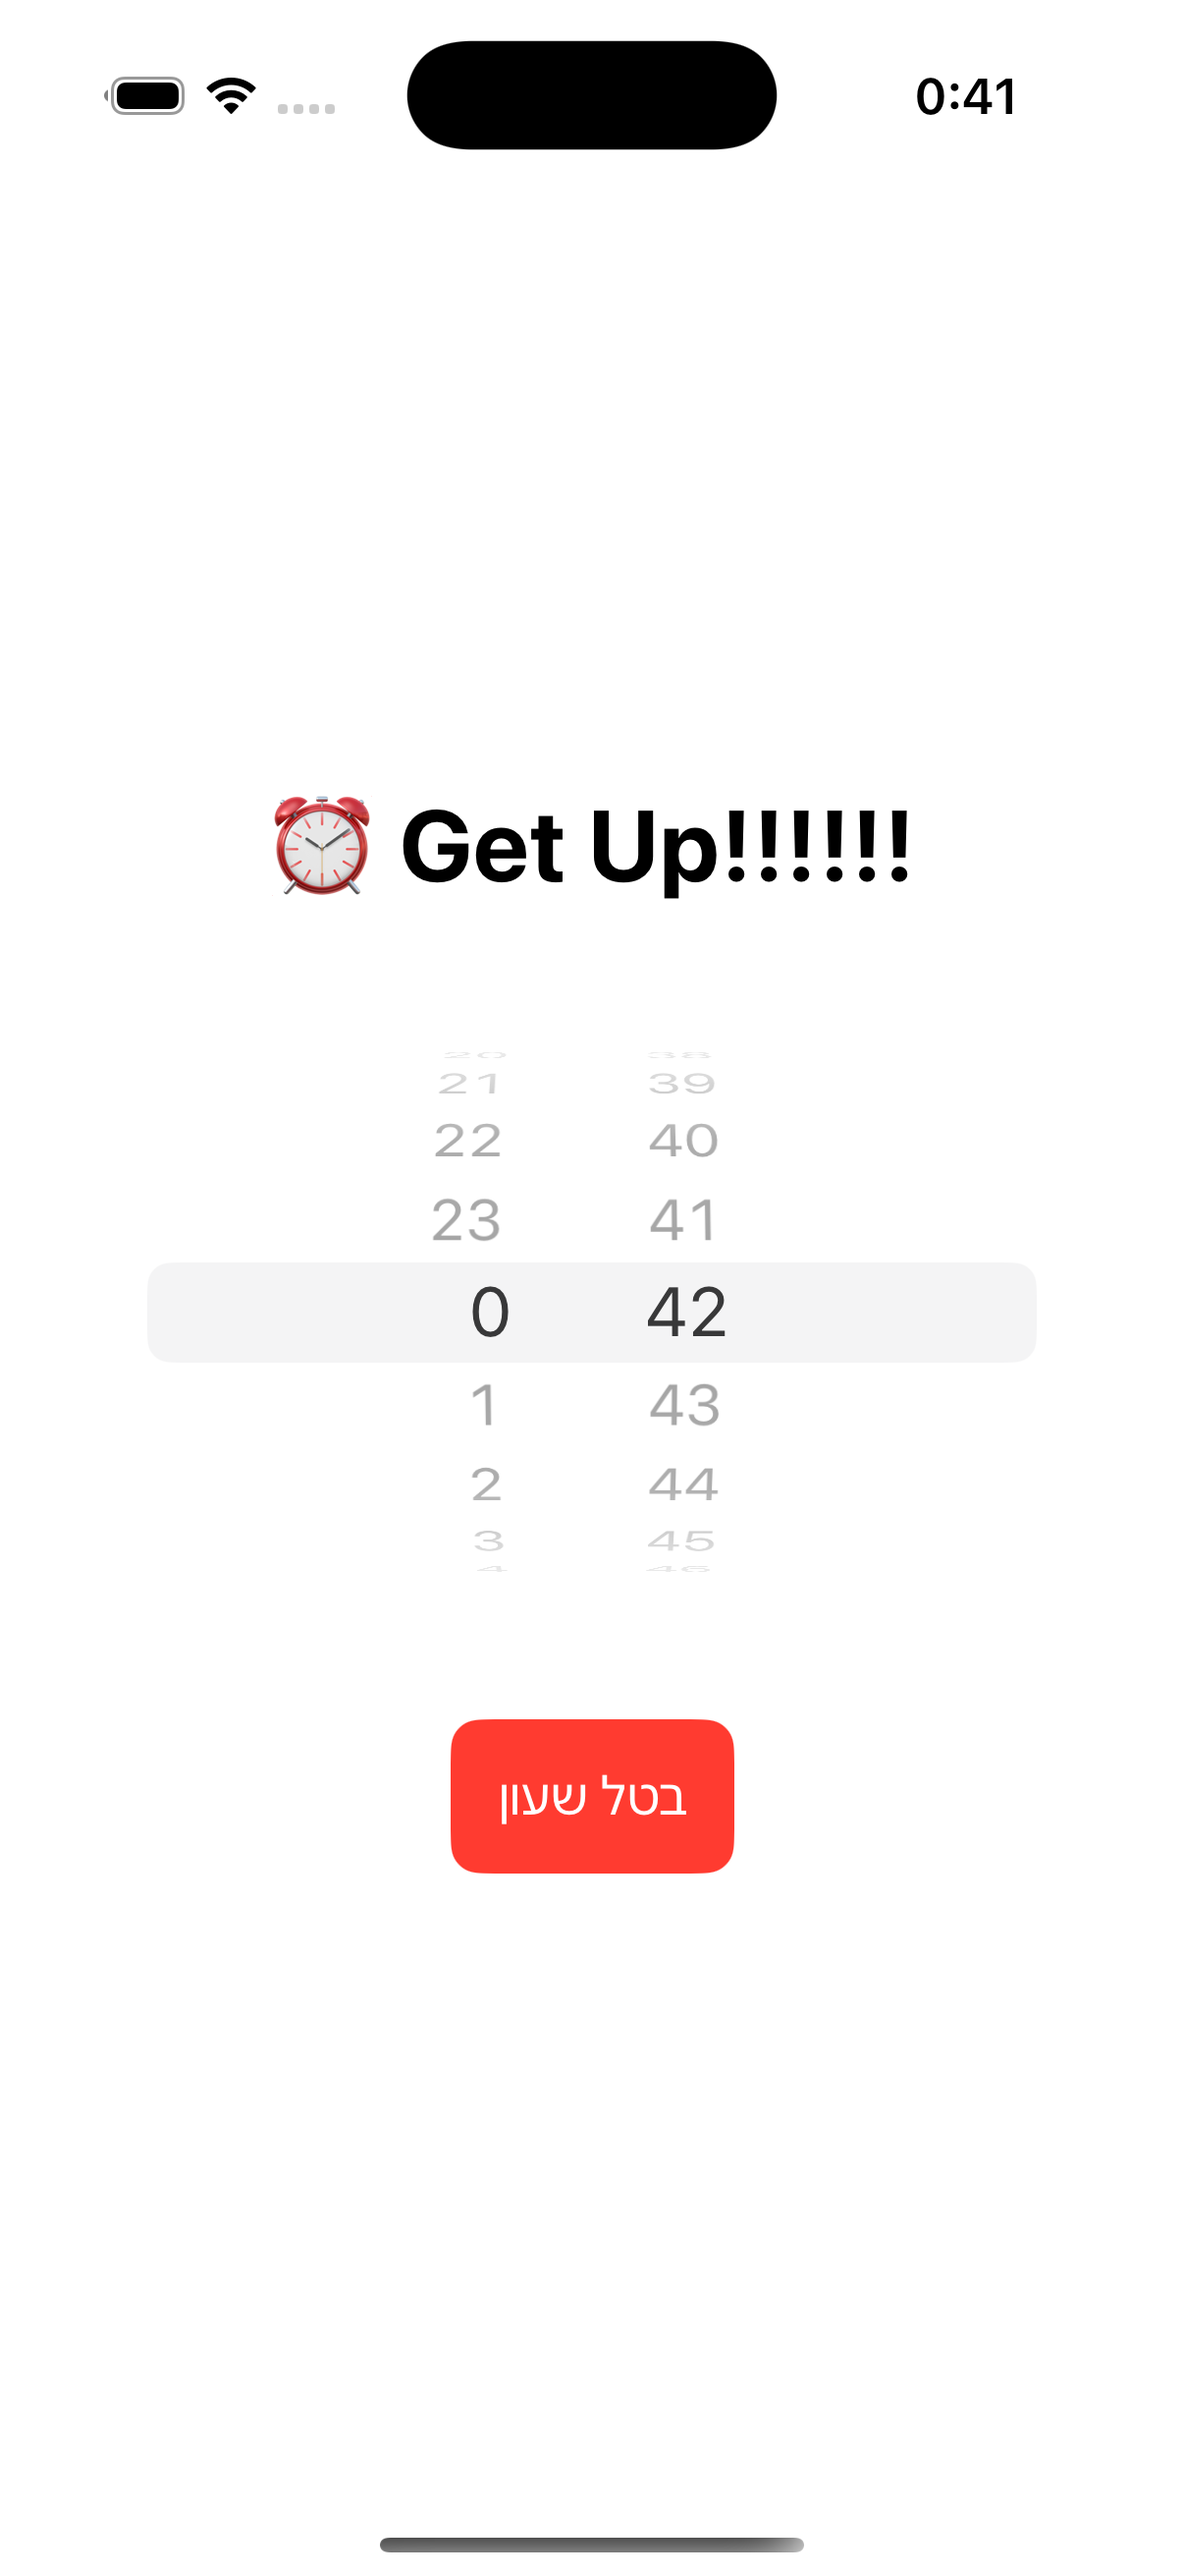
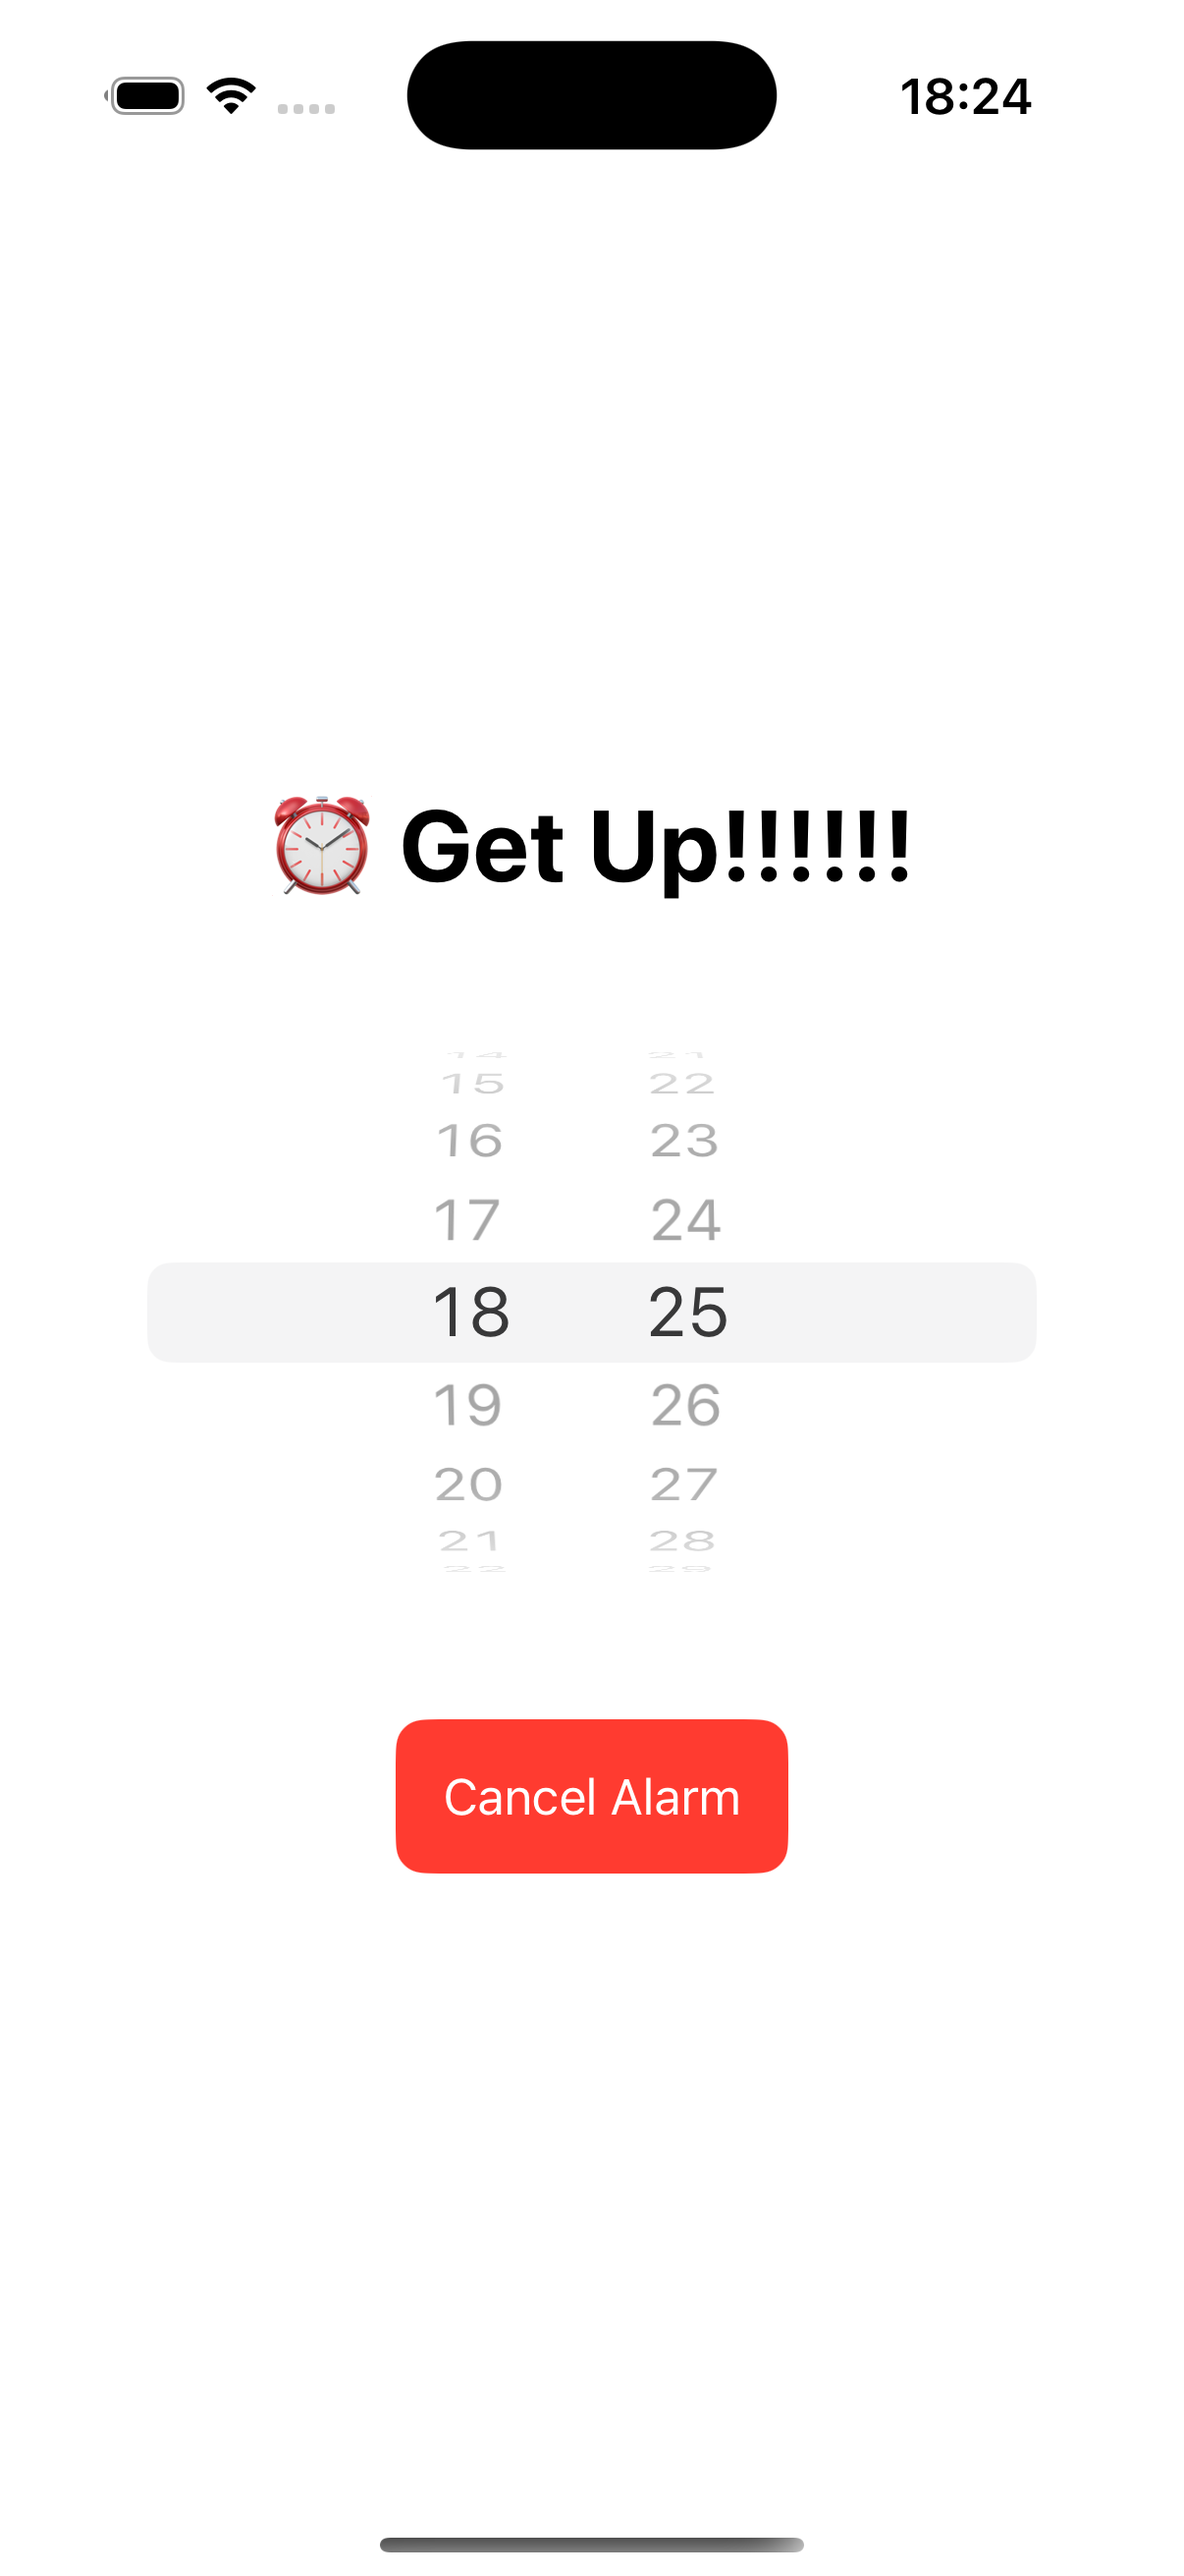
Translate all user-visible strings to English

diff --git a/SmartWake/MultiplyChallengeView.swift b/SmartWake/MultiplyChallengeView.swift
@@ -10,24 +10,24 @@ struct MultiplyChallengeView: View {
 
     var body: some View {
         VStack(spacing: 30) {
-            Text("📚 לוח הכפל")
+            Text("📚 Multiplication Table")
                 .font(.title)
                 .bold()
 
             if finished {
-                Text("✅ הצלחת! אפשר לחזור לישון 😉")
+                Text("✅ Well done! You can go back to sleep 😉")
                     .font(.title2)
                     .foregroundColor(.green)
             } else {
                 Text(question)
                     .font(.system(size: 50, weight: .bold, design: .rounded))
 
-                TextField("התשובה שלך", text: $userAnswer)
+                TextField("Your answer", text: $userAnswer)
                     .keyboardType(.numberPad)
                     .textFieldStyle(RoundedBorderTextFieldStyle())
                     .frame(width: 100)
 
-                Button("בדוק תשובה") {
+                Button("Check Answer") {
                     checkAnswer()
                 }
                 .padding()
@@ -35,7 +35,7 @@ struct MultiplyChallengeView: View {
                 .foregroundColor(.white)
                 .cornerRadius(10)
 
-                Text("נשארו לך \(5 - score) שאלות")
+                Text("You have \(5 - score) questions left")
                     .foregroundColor(.gray)
             }
         }

diff --git a/SmartWake/ContentView.swift b/SmartWake/ContentView.swift
@@ -14,11 +14,11 @@ struct ContentView: View {
                 .bold()
             
             // Wheel picker—hour & minute only (no date)
-            DatePicker("בחר שעה", selection: bindingForTime(), displayedComponents: [.hourAndMinute])
+            DatePicker("Pick a time", selection: bindingForTime(), displayedComponents: [.hourAndMinute])
                 .datePickerStyle(WheelDatePickerStyle())
                 .labelsHidden()
 
-            Button(alarmSet ? "בטל שעון" : "הפעל שעון") {
+            Button(alarmSet ? "Cancel Alarm" : "Set Alarm") {
                 if alarmSet {
                     cancelAlarm()
                 } else {
@@ -55,8 +55,8 @@ struct ContentView: View {
     /// Builds and registers a *one-time* local notification.
     func scheduleAlarm() {
         let content = UNMutableNotificationContent()
-        content.title = "קום כבר!"
-        content.body = "הגיע הזמן לפתור את לוח הכפל 📚"
+        content.title = "Wake Up!"
+        content.body = "Time for the multiplication challenge 📚"
         content.sound = UNNotificationSound(named: UNNotificationSoundName("alarmSound.caf"))
         content.categoryIdentifier = "alarmCategory"
 

diff --git a/SmartWake/SmartWakeApp.swift b/SmartWake/SmartWakeApp.swift
@@ -16,9 +16,9 @@ struct SmartWakeApp: App {
                         // Ask for alert + sound permission (minimum required)
                         UNUserNotificationCenter.current().requestAuthorization(options: [.alert, .sound]) { success, error in
                             if success {
-                                print("הרשאה ניתנה ✅")
+                                print("Notification authorization granted ✅")
                             } else if let error = error {
-                                print("שגיאה בהרשאה: \(error.localizedDescription)")
+                                print("Authorization error: \(error.localizedDescription)")
                             }
                         }
                         // Listen for taps on the banner
